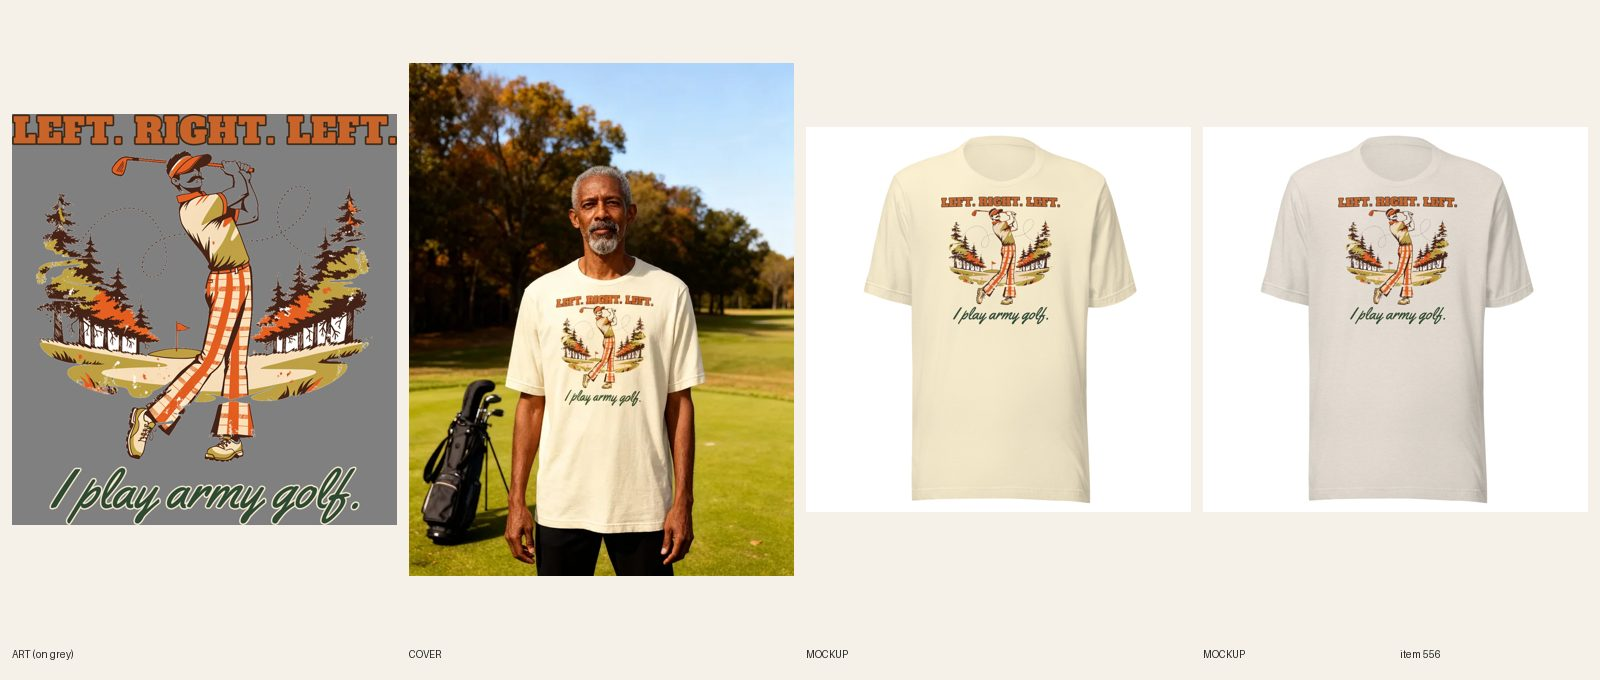
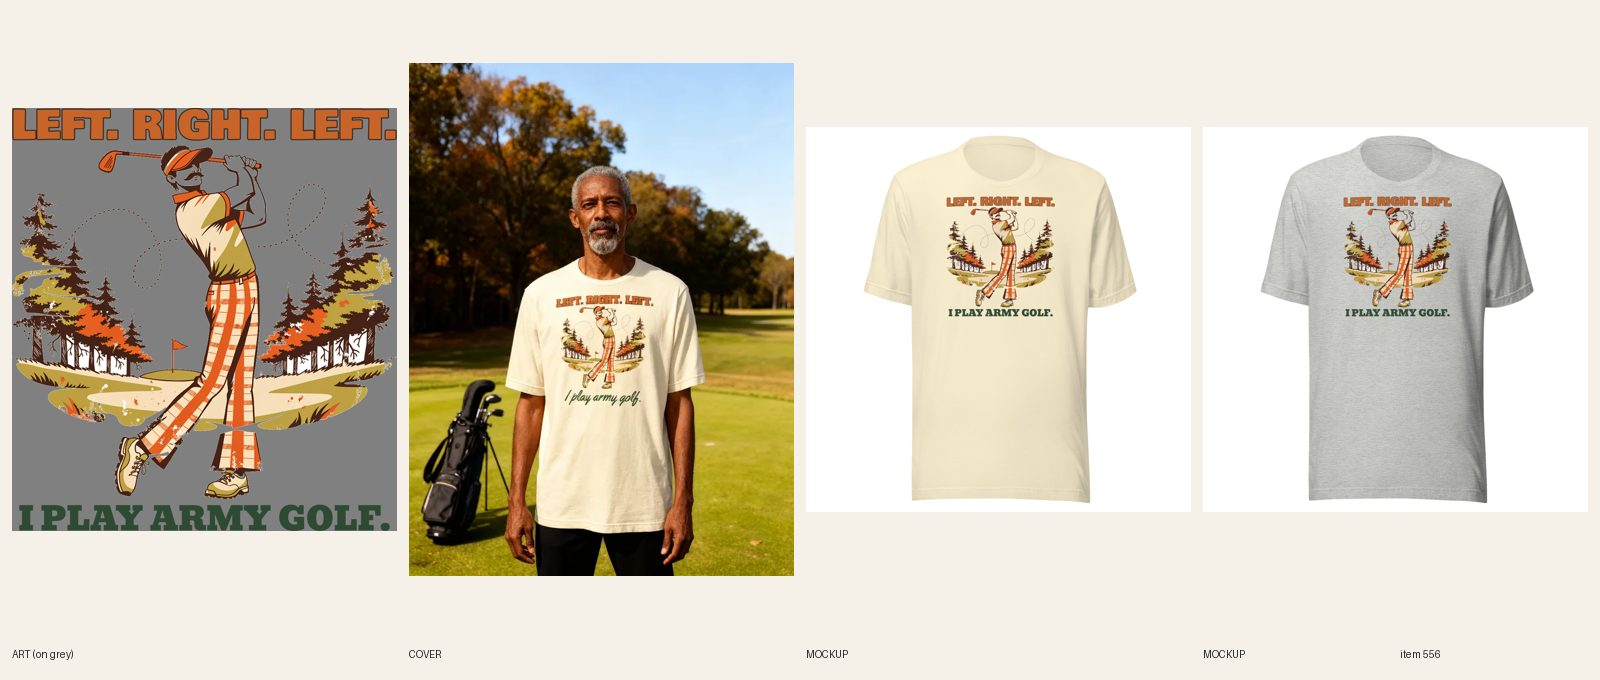
[E] review 556 Men's Golf I Play Army Golf tee (type redo)

Changed region(s): [[0.0, 0.1544, 0.25, 0.8029], [0.7812, 0.1853, 0.9688, 0.7412], [0.5938, 0.2779, 0.6562, 0.4941]]

diff --git a/designs/e556/compose.py b/designs/e556/compose.py
@@ -1,0 +1,31 @@
+#!/usr/bin/env python3
+"""#556 type redo: heavy two-line lockup around the existing golfer art (transparent), all inks dark for the six light blanks."""
+import sys
+from PIL import Image, ImageDraw, ImageFont
+F = 'designs/fonts/'
+src = Image.open('docs/print-files/556-army-golf.png').convert('RGBA')
+art = src.crop((0, 330, src.width, 3010)); art = art.crop(art.getbbox()); art.save('designs/e556/art.png')
+W = art.width
+def line(text, font, fill, stroke, sfill, width):
+    size = 80
+    while True:
+        f = ImageFont.truetype(F + font, size)
+        bb = f.getbbox(text, stroke_width=stroke)
+        if bb[2] - bb[0] >= width or size > 2000:
+            break
+        size += 4
+    im = Image.new('RGBA', (bb[2] - bb[0] + 20, bb[3] - bb[1] + 20), (0, 0, 0, 0))
+    ImageDraw.Draw(im).text((10 - bb[0], 10 - bb[1]), text, font=f, fill=fill, stroke_width=stroke, stroke_fill=sfill)
+    return im.crop(im.getbbox())
+ORANGE, BROWN, GREEN = '#c8642a', '#3b2a1d', '#2f4a33'
+l1 = line('LEFT. RIGHT. LEFT.', 'BowlbyOne-Regular.ttf', ORANGE, 8, BROWN, W)
+l2 = line('I PLAY ARMY GOLF.', 'Bevan-Regular.ttf', GREEN, 0, GREEN, int(W * 0.96))
+gap = 40
+stack = [l1, art, l2]
+H = sum(i.height for i in stack) + gap * 2
+out = Image.new('RGBA', (max(i.width for i in stack), H), (0, 0, 0, 0))
+y = 0
+for i in stack:
+    out.alpha_composite(i, ((out.width - i.width) // 2, y)); y += i.height + gap
+out.save(sys.argv[1], dpi=(300, 300))
+print(out.size, [i.size for i in stack], 'ratio', out.height / out.width)

diff --git a/docs/pipeline/556-golf-tee-i-play-army-golf.md b/docs/pipeline/556-golf-tee-i-play-army-golf.md
@@ -1,4 +1,4 @@
-status: BUILDING [E] 2026-10-19 19:15
+status: REVIEW
 lane: E
 type: new
 id: 556
@@ -32,3 +32,4 @@ kd: 14
 - 2026-10-18 07:01 UTC builder [E]: sync 40/40 confirmed. REVIEW.
 - 2026-10-18 07:22 UTC director: approved from docs/review/556.jpg; ACTIVE + Online Store + Headless + Google & YouTube. audit --handle PASS (0 warn). LIVE.
 - 2026-10-18 17:22 UTC director: QUALITY RESET grade B (type only), REDO. The product stays ACTIVE (same handle, URL, title keyword). Keep the line "LEFT. RIGHT. LEFT. / I play army golf." and the art. 1. Type: Thin dark-green script second line under art, ~35% headline height; plain bar on top. 2. Quality reset type bar (docs/backlog/quality-reset.md, 'The new bar'): headline at least 90% of the art width, heavy, colors pulled from the art; second line at least 45% of the headline's height, never a thin script on a dark or mid garment; use the lettering as a shape (arch, stacked lockup, words breaking into the art), not a plain bar above and a script line below; no font used on more than 1 in 6 of the last 30 designs. 3. New print file means a new cover per R6.10 and a fresh review sheet (R7.7). While quality-reset.md says PAUSED, only lane A builds, and only the samples step 2 names.
+- 2026-10-19 19:26 UTC builder [E]: REDO type-only done. Same golfer art (old text bars cropped off), new lockup designs/e556/compose.py: LEFT. RIGHT. LEFT. Bowlby One burnt orange #c8642a with brown keyline at full art width, I PLAY ARMY GOLF. Bevan dark green #2f4a33 at 96% width (second line 81% of headline height). Print 2880 x 3166 px, Printful file 1089766424, FW 1650 TOP 75, resynced 40/40. All six colors are light and every ink is dark: no light file needed. 6 fronts replaced in place in Shopify (back unchanged). Cover: plain product shot (handle in retired-covers.json). Phone-size read: all lines clear on Natural. Copy still accurate. fal $0. Sheet docs/review/556.jpg.

diff --git a/docs/intake-log.md b/docs/intake-log.md
@@ -1,4 +1,5 @@
 RUNNING lane E since 2026-10-19 19:15 UTC
+2026-10-19 19:26 UTC — [E] Builder run: redid #556 Men's Golf I Play Army Golf tee (type only: Bowlby One orange LEFT. RIGHT. LEFT. + Bevan green I PLAY ARMY GOLF. at full art width, same art, FW 1650, file 1089766424, 40/40 resynced, 6 fronts replaced in place, plain product shot). REVIEW. fal $0.
 2026-10-19 19:13 UTC — [A] Builder run: redid #460 Expert in Après hoodie (type only: ported #461's heavy burgundy Alfa Slab / navy Anton lockup, same art, FW 1500, Sand on dark file 1089759415, Navy on light-ink file 1089759425, 12/12 relinked, 2 fronts replaced in place, copy updated, plain product shot). REVIEW. fal $0. Lock released.
 2026-10-19 19:04 UTC — [C] Builder run: redid #625 Men's Rack Your Weights oversized hoodie (type only: Bevan stacked RACK YOUR / WEIGHTS. + heavy gold Playfair italic Respectfully., art at 64% to fit the 1650 px print area, FW 1500 TOP 20, file 1089754041, 12/12 relinked, 2 fronts replaced in place, copy updated, plain product shot). REVIEW. fal $0. 1 redo per run cap reached. Lock released.
 2026-10-19 19:07 UTC — [B] Builder run: redid #512 I Brought You a Sock crewneck (type only: Bevan rust I BROUGHT / brown YOU A SOCK. stacked at full print width, navy YOU'RE WELCOME. caps, same art, FW 1650, file 1089754720, 12/12 relinked, 2 fronts replaced in place, plain product shot). REVIEW. fal $0. Lock released.
